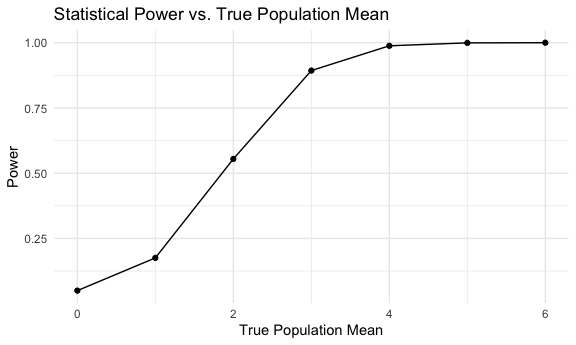
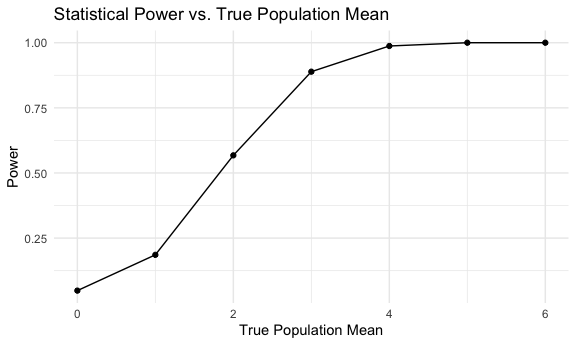
Finished problem 3.

diff --git a/p8105_hw5_mts2203.md b/p8105_hw5_mts2203.md
@@ -44,16 +44,16 @@ birthday_probabilities_df =
     ## # A tibble: 49 × 2
     ##    number_of_people probability
     ##               <int>       <dbl>
-    ##  1                2      0.0025
-    ##  2                3      0.0082
+    ##  1                2      0.0023
+    ##  2                3      0.0087
     ##  3                4      0.0171
-    ##  4                5      0.0262
-    ##  5                6      0.0414
-    ##  6                7      0.0587
-    ##  7                8      0.0721
-    ##  8                9      0.091 
-    ##  9               10      0.108 
-    ## 10               11      0.146 
+    ##  4                5      0.0266
+    ##  5                6      0.0398
+    ##  6                7      0.0572
+    ##  7                8      0.0782
+    ##  8                9      0.0941
+    ##  9               10      0.115 
+    ## 10               11      0.140 
     ## # ℹ 39 more rows
 
 ## Plotting Birthday Probabilities
@@ -270,16 +270,16 @@ sim_results1_df =
     ## # A tibble: 5,000 × 3
     ##    samp_size estimate p.value
     ##        <dbl>    <dbl>   <dbl>
-    ##  1        30   0.527   0.502 
-    ##  2        30   1.04    0.170 
-    ##  3        30   1.68    0.0507
-    ##  4        30  -0.524   0.532 
-    ##  5        30   0.260   0.772 
-    ##  6        30   0.350   0.650 
-    ##  7        30  -1.02    0.277 
-    ##  8        30   1.42    0.0829
-    ##  9        30   0.0946  0.902 
-    ## 10        30  -0.539   0.639 
+    ##  1        30  -2.66    0.0168
+    ##  2        30  -0.314   0.727 
+    ##  3        30  -0.0204  0.984 
+    ##  4        30  -0.153   0.866 
+    ##  5        30  -1.32    0.122 
+    ##  6        30  -1.70    0.0739
+    ##  7        30  -1.27    0.153 
+    ##  8        30  -0.402   0.709 
+    ##  9        30   0.571   0.511 
+    ## 10        30   0.162   0.855 
     ## # ℹ 4,990 more rows
 
 ## Repeating Simulations for Mu Set
@@ -301,16 +301,16 @@ sim_results2_df =
     ## # A tibble: 35,000 × 4
     ##       mu  iter estimate p.value
     ##    <int> <int>    <dbl>   <dbl>
-    ##  1     0     1   -0.401  0.684 
-    ##  2     0     2    0.145  0.864 
-    ##  3     0     3    0.605  0.547 
-    ##  4     0     4    0.445  0.572 
-    ##  5     0     5   -1.28   0.177 
-    ##  6     0     6   -1.58   0.0770
-    ##  7     0     7   -0.150  0.872 
-    ##  8     0     8    1.04   0.240 
-    ##  9     0     9    1.21   0.199 
-    ## 10     0    10   -0.611  0.471 
+    ##  1     0     1  -1.42    0.181 
+    ##  2     0     2   0.775   0.389 
+    ##  3     0     3  -1.92    0.0388
+    ##  4     0     4   0.766   0.430 
+    ##  5     0     5   0.529   0.552 
+    ##  6     0     6   0.168   0.824 
+    ##  7     0     7   0.0109  0.990 
+    ##  8     0     8  -0.505   0.549 
+    ##  9     0     9  -0.595   0.421 
+    ## 10     0    10  -0.649   0.540 
     ## # ℹ 34,990 more rows
 
 ## Making a Plot to Visualize Effect Size and Power
@@ -329,8 +329,7 @@ sim_results2_df |>
     title = "Statistical Power vs. True Population Mean",
     x = "True Population Mean",
     y = "Power"
-  ) +
-  theme_minimal()
+  )
 ```
 
 <img src="p8105_hw5_mts2203_files/figure-gfm/plotting_statistics-1.png" alt="" width="90%" />
@@ -344,3 +343,59 @@ approximately 1.00 when the true population mean is 5. After this point,
 power stabilizes around 1.00. This indicates that as the effect size
 increases, the probability of rejecting the null hypothesis also
 increases, meaning the test becomes more likely to detect a true effect.
+
+## Overlaying Statistical Plots to Compare Average Estimated and True Mus
+
+``` r
+# plotting average estimates across all samples against significant samples
+sim_results2_df |> 
+  group_by(mu) |> 
+  summarize(
+    avg_estimate = mean(estimate),
+    avg_reject_estimate = mean(estimate[p.value < 0.05])
+  ) |> 
+  pivot_longer(
+    cols = c(avg_estimate, avg_reject_estimate),
+    names_to = "estimate_type",
+    values_to = "mean_estimate"
+  ) |> 
+  ggplot(aes(x = mu, y = mean_estimate, color = estimate_type)) +
+  geom_point() +
+  geom_line() +
+  geom_abline(
+    intercept = 0,
+    slope = 1,
+    linetype = "dashed",
+    color = "black"
+  ) +
+  labs(
+    title = "Average Estimates vs. True Population Mean",
+    x = "True Population Mean",
+    y = "Average Estimated Mean",
+    color = "Estimate Type"
+  ) +
+  scale_color_discrete(
+    labels = c(
+      "Average Estimate (All Samples)",
+      "Average Estimate (Rejected Null Only)"
+    )
+  )
+```
+
+<img src="p8105_hw5_mts2203_files/figure-gfm/overlaying_statistics-1.png" alt="" width="90%" />
+
+## Commenting on the Relationship Between Estimated and True Population Means
+
+No, the average estimated mean among samples where the null hypothesis
+was rejected is not necessarily equal to the true population mean. This
+is because we are only selecting statistically significant samples
+(p-values below 0.05). These samples tend to have estimated means
+further away from zero, which can lead to an overestimation of the true
+population mean. This is an example of selection bias.
+
+In contrast, the average estimated mean across all simulations should be
+approximately equal to the true population mean because the sample mean
+is an unbiased estimator. As the true population mean increases,
+statistical power also increases, meaning more samples are significant.
+Therefore, the average estimate among significant samples becomes closer
+to the true population mean.
